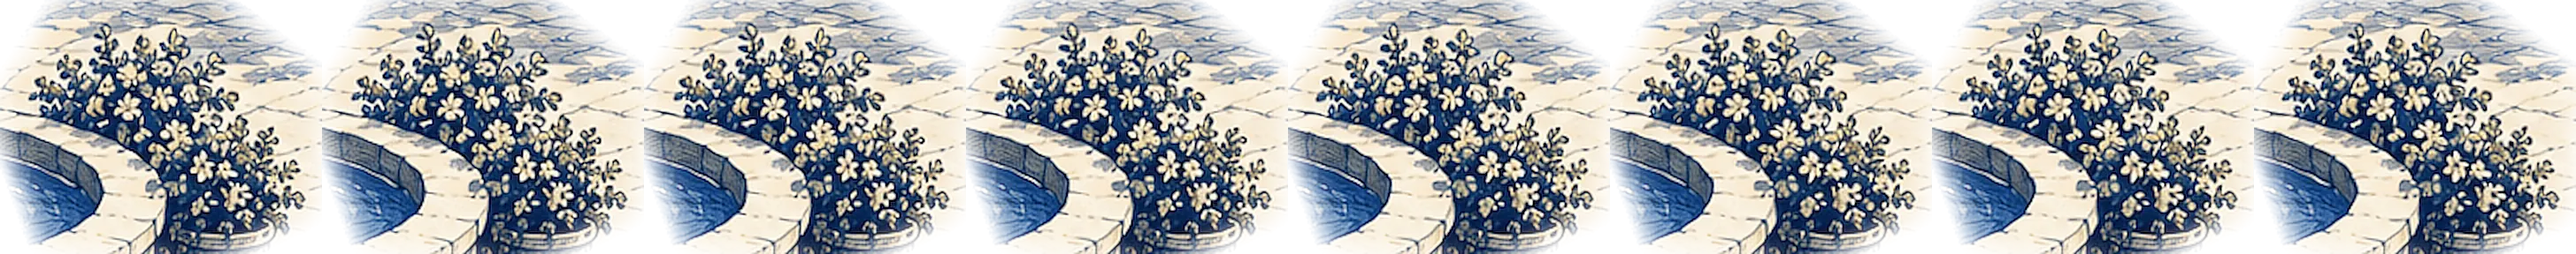
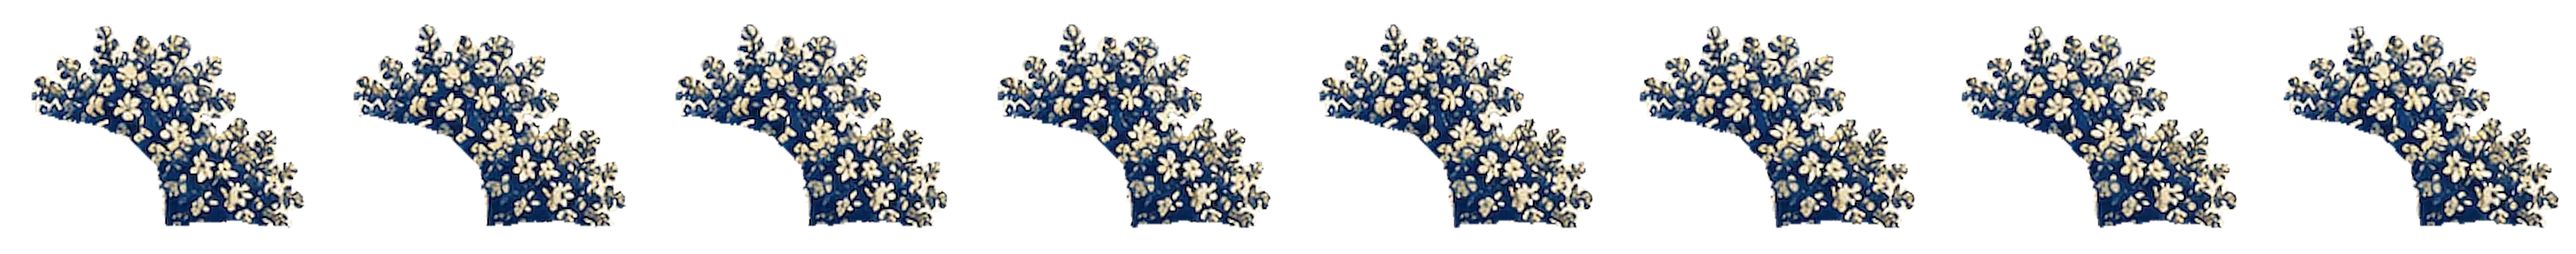
fix(design): move only the foliage in a gust, not what stands around it

diff --git a/design/leaves.py b/design/leaves.py
@@ -1,23 +1,37 @@
-# Кадры порыва ветра для листвы на карте двора: те же пиксели, крона качается от ствола
-# (верх сильнее), листья мелко дрожат. Кадр «покоя» не нужен: в покое слой скрыт.
-# Пиксели берутся бикубически (Catmull-Rom), чтобы штриховка не мылилась; кадры потом
-# увеличиваются в 2× тем же способом, что и сама карта (см. asset-prompt.txt, «Обработка»).
-# usage: leaves.py scene-courtyard-map.png <папка> → <папка>/<имя>-f0…f7.png и список областей
+# Frames of a gust of wind in the foliage on the courtyard map: the same pixels, the crown sways
+# from the trunk (the top more), the leaves tremble. A frame «at rest» is not needed: at rest the
+# layer is hidden. Pixels are taken bicubically (Catmull-Rom) so the hatching does not blur; the
+# frames are then enlarged 2× the same way as the map (see asset-prompt.txt, «Обработка»).
+# Only the foliage moves. It is a layer: dense ink inside a polygon that keeps out what stands next
+# to the plant (the rim of the fountain, a pot, a wall, a beam, a roof, barrels, flowers), with its
+# small holes filled. The strip of ground it uncovers is filled from the ground beside it; outside
+# the foliage and its sway a frame is transparent, so everything around stays as on the map.
+# usage: leaves.py scene-courtyard-map.png <dir> → <dir>/<name>-f0…f7.png; prints for each region
+#        the place of its frames and the pixels that change between frames outside the foliage
 import sys
 import numpy as np
 from PIL import Image, ImageDraw, ImageFilter
+
 src, outdir = sys.argv[1], sys.argv[2]
 full = np.asarray(Image.open(src).convert('RGB')).astype(np.float32)
-# имя: рамка (x0, y0, x1, y1), контур кроны, низ кроны (у ствола качания нет), размах в px
+# name: frame (x0, y0, x1, y1), polygon where the leaves are, bottom of the crown (no sway at the
+# trunk), sway in px, the largest hole inside the foliage that is still foliage (px)
 REGIONS = {
     'olive': ((0, 620, 570, 890), [(0, 682), (60, 684), (110, 690), (140, 668), (190, 647), (240, 637), (300, 634), (360, 634),
-                                   (410, 648), (450, 660), (490, 686), (530, 716), (552, 742), (532, 782), (480, 802), (420, 800),
-                                   (410, 890), (0, 890)], 890, 2.4),
-    'bush-l': ((540, 592, 700, 732), [(548, 650), (575, 606), (640, 598), (690, 640), (684, 700), (640, 726), (570, 722)], 726, 1.6),
-    'bush-r': ((880, 598, 1062, 742), [(888, 660), (920, 610), (990, 604), (1052, 650), (1048, 710), (990, 738), (912, 728)], 738, 1.6),
-    'tree': ((400, 226, 566, 430), [(412, 300), (440, 240), (500, 232), (556, 280), (552, 380), (500, 420), (430, 410)], 425, 1.8),
+                                   (410, 648), (450, 660), (490, 686), (530, 716), (552, 742), (545, 768), (520, 790), (480, 805),
+                                   (430, 812), (395, 826), (350, 832), (340, 890), (0, 890)], 890, 2.4, 120),
+    'bush-l': ((540, 592, 700, 732), [(546, 640), (575, 596), (640, 590), (692, 630), (692, 656), (672, 659), (655, 662), (630, 667),
+                                      (605, 675), (588, 686), (578, 694), (566, 699), (552, 702), (544, 690)], 726, 1.6, 150),
+    'bush-r': ((880, 598, 1062, 742), [(894, 652), (920, 604), (990, 597), (1052, 640), (1060, 690), (1056, 724), (1035, 724),
+                                       (1010, 721), (985, 723), (975, 724), (973, 708), (970, 690), (953, 673), (930, 666),
+                                       (902, 661)], 738, 1.6, 150),
+    'tree': ((400, 226, 566, 430), [(410, 300), (430, 262), (450, 245), (480, 238), (500, 242), (510, 249), (512, 258), (513, 268),
+                                    (518, 275), (533, 265), (534, 330),
+                                    (531, 380), (518, 405), (495, 425), (462, 408), (440, 402), (431, 396), (431, 350),
+                                    (412, 345)], 425, 1.8, 60),
 }
-ENV = [0.2, 0.6, 1.0, 0.8, 0.45, 0.05, -0.2, -0.08]   # качнуло, вернулось, чуть назад; края ≈ 0 — без рывка
+ENV = [0.2, 0.6, 1.0, 0.8, 0.45, 0.05, -0.2, -0.08]   # swayed, came back, a little past; ends ≈ 0, no jerk
+SPECK = 30                                             # dense ink smaller than this is not foliage
 
 
 def cubic(img, x, y):
@@ -29,21 +43,81 @@ def cubic(img, x, y):
     for j in range(4):
         row = 0
         for i in range(4):
-            row = row + img[np.clip(yi + j - 1, 0, H - 1), np.clip(xi + i - 1, 0, W - 1)] * wx[i][..., None]
-        out = out + row * wy[j][..., None]
+            v = img[np.clip(yi + j - 1, 0, H - 1), np.clip(xi + i - 1, 0, W - 1)]
+            row = row + v * (wx[i][..., None] if img.ndim == 3 else wx[i])
+        out = out + row * (wy[j][..., None] if img.ndim == 3 else wy[j])
     return out
-for name, ((x0, y0, x1, y1), poly, base, amp) in REGIONS.items():
+
+
+def parts(mask):
+    """Each 4-connected part of `mask` as (pixels, touches the border)."""
+    label = Image.fromarray(mask.astype(np.int32), 'I')
+    found = []
+    for y, x in zip(*np.nonzero(mask)):
+        if label.getpixel((int(x), int(y))) != 1: continue
+        ImageDraw.floodfill(label, (int(x), int(y)), len(found) + 2)
+        found.append(None)
+    labels = np.asarray(label)
+    out = []
+    for n in range(2, len(found) + 2):
+        part = labels == n
+        out.append((part, bool(part[0].any() or part[-1].any() or part[:, 0].any() or part[:, -1].any())))
+    return out
+
+
+def foliage(img, inside, largest_hole):
+    lum = img @ np.array([0.2126, 0.7152, 0.0722])
+    dense = Image.fromarray(((lum < 150) * 255).astype(np.uint8)).filter(ImageFilter.GaussianBlur(3))
+    m = Image.fromarray(((np.asarray(dense) > 102) * 255).astype(np.uint8)).filter(ImageFilter.MaxFilter(5)).filter(ImageFilter.MinFilter(5))
+    m = (np.asarray(m) > 0) & inside
+    for part, _ in parts(m):
+        if part.sum() < SPECK: m &= ~part
+    for part, border in parts(~m & inside):
+        if not border and part.sum() <= largest_hole: m |= part
+    return m
+
+
+def fill(img, hole, rounds=8):
+    """The pixels of `hole` from their known neighbours, ring by ring from its edge."""
+    img = img.copy(); known = ~hole
+    for _ in range(rounds):
+        acc = np.zeros_like(img); cnt = np.zeros(hole.shape, np.float32)
+        for shift in ((1, 0), (-1, 0), (0, 1), (0, -1)):
+            k = np.roll(known, shift, (0, 1)); acc += np.roll(img, shift, (0, 1)) * k[..., None]; cnt += k
+        new = ~known & (cnt > 0)
+        img[new] = acc[new] / cnt[new][:, None]; known |= new
+    return img
+
+
+for name, ((x0, y0, x1, y1), poly, base, amp, largest_hole) in REGIONS.items():
     img = full[y0:y1, x0:x1]; H, W = img.shape[:2]
     m = Image.new('L', (W, H), 0); ImageDraw.Draw(m).polygon([(x - x0, y - y0) for x, y in poly], 255)
     mk = np.asarray(m.filter(ImageFilter.GaussianBlur(6))).astype(np.float32) / 255
-    alpha = np.asarray(m.filter(ImageFilter.MaxFilter(9)).filter(ImageFilter.GaussianBlur(5))).astype(np.float32)
+    leaves = foliage(img, np.asarray(m) > 0, largest_hole)
+    leaves = np.asarray(Image.fromarray(leaves.astype(np.uint8) * 255).filter(ImageFilter.MaxFilter(3))) > 0   # no edge pixel left behind
+    ground = fill(img, leaves)
+    layer, cover = img * leaves[..., None], leaves.astype(np.float32)
     yy, xx = np.mgrid[0:H, 0:W].astype(np.float32)
     top = min(y for _, y in poly) - y0
     h = np.clip((base - y0 - yy) / max(1, base - y0 - top), 0, 1) ** 0.8
+    drawn, most = [], 0.0
     for i, e in enumerate(ENV):
         ph = 2 * np.pi * i / len(ENV)
         dx = mk * (amp * e * h * (1 + 0.35 * np.sin(2 * np.pi * xx / 70 + yy / 40)) + 0.6 * np.sin(2 * np.pi * (xx / 17 + yy / 23) - ph))
         dy = mk * 0.5 * np.sin(2 * np.pi * (xx / 21 - yy / 19) - ph)
-        f = cubic(img, np.clip(xx - dx, 0, W - 1), np.clip(yy - dy, 0, H - 1))
-        Image.fromarray(np.dstack([np.clip(f, 0, 255), alpha]).astype(np.uint8), 'RGBA').save(f'{outdir}/{name}-f{i}.png')
-    print(name, x0, y0, W, H)
+        sx, sy = np.clip(xx - dx, 0, W - 1), np.clip(yy - dy, 0, H - 1)
+        c = np.clip(cubic(cover, sx, sy), 0, 1)
+        rgb = np.clip(cubic(layer, sx, sy), 0, 255) + ground * (1 - c[..., None])
+        shown = leaves | (c > 0.01)
+        Image.fromarray(np.dstack([np.clip(rgb, 0, 255), shown * 255]).astype(np.uint8), 'RGBA').save(f'{outdir}/{name}-f{i}.png')
+        drawn.append(np.where(shown[..., None], rgb, img))
+        most = max(most, float(np.abs(dx[leaves]).max()), float(np.abs(dy[leaves]).max()))
+    drawn = np.stack(drawn)
+    changed = (drawn.max(0) - drawn.min(0)).max(-1) > 0.5
+    # where the foliage can reach: itself, its largest sway and the reach of the bicubic kernel
+    r = int(np.ceil(most)) + 2
+    reach = np.asarray(Image.fromarray(leaves.astype(np.uint8) * 255).filter(ImageFilter.MaxFilter(2 * r + 1))) > 0
+    outside = int((changed & ~reach).sum())
+    print(f'{name} {x0} {y0} {W} {H}: between frames {outside} px change outside the foliage '
+          f'and its sway, {(changed & ~leaves).sum()} px where it sways over the ground')
+    if outside: sys.exit(f'{name}: what stands around the plant moves')
